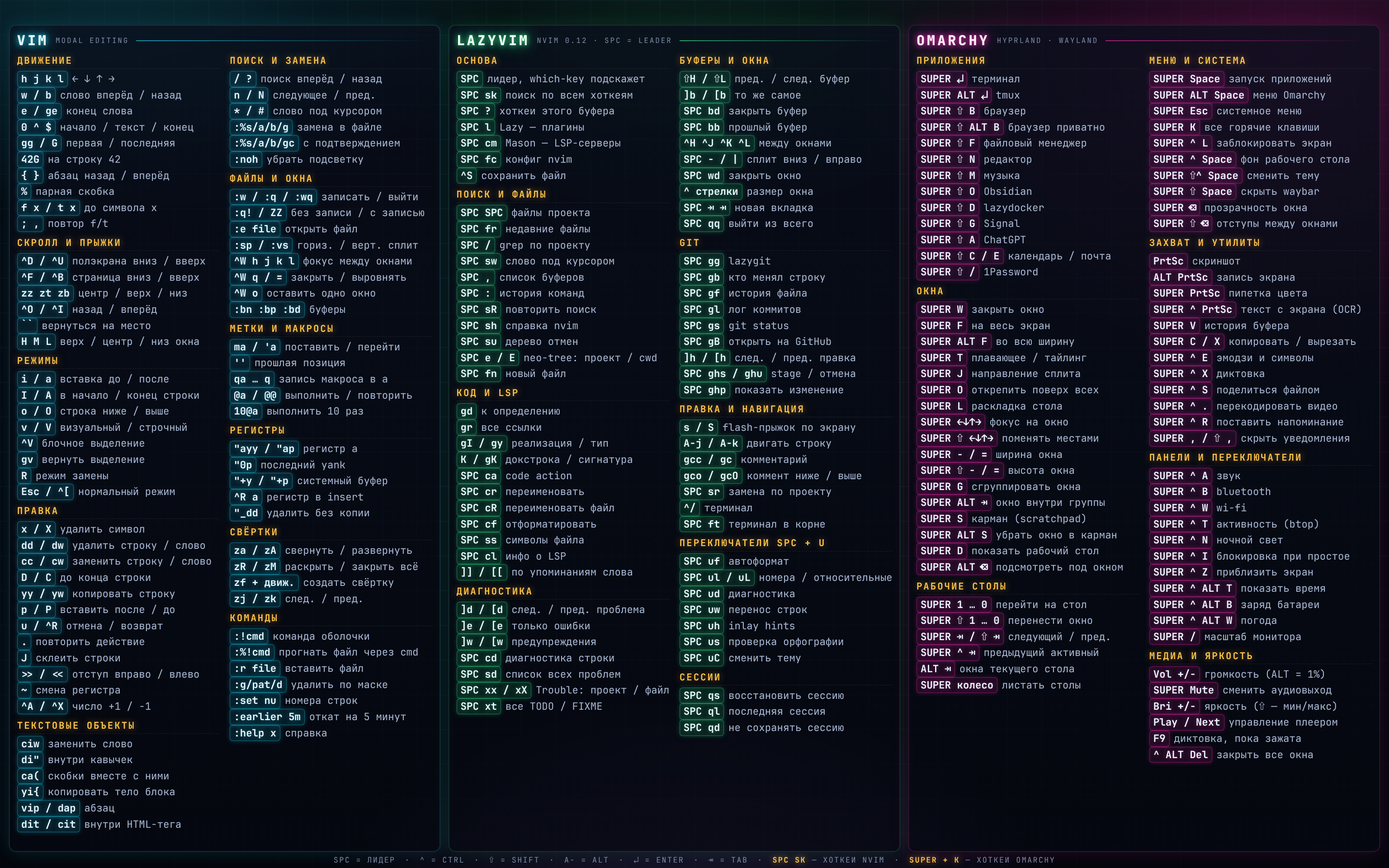
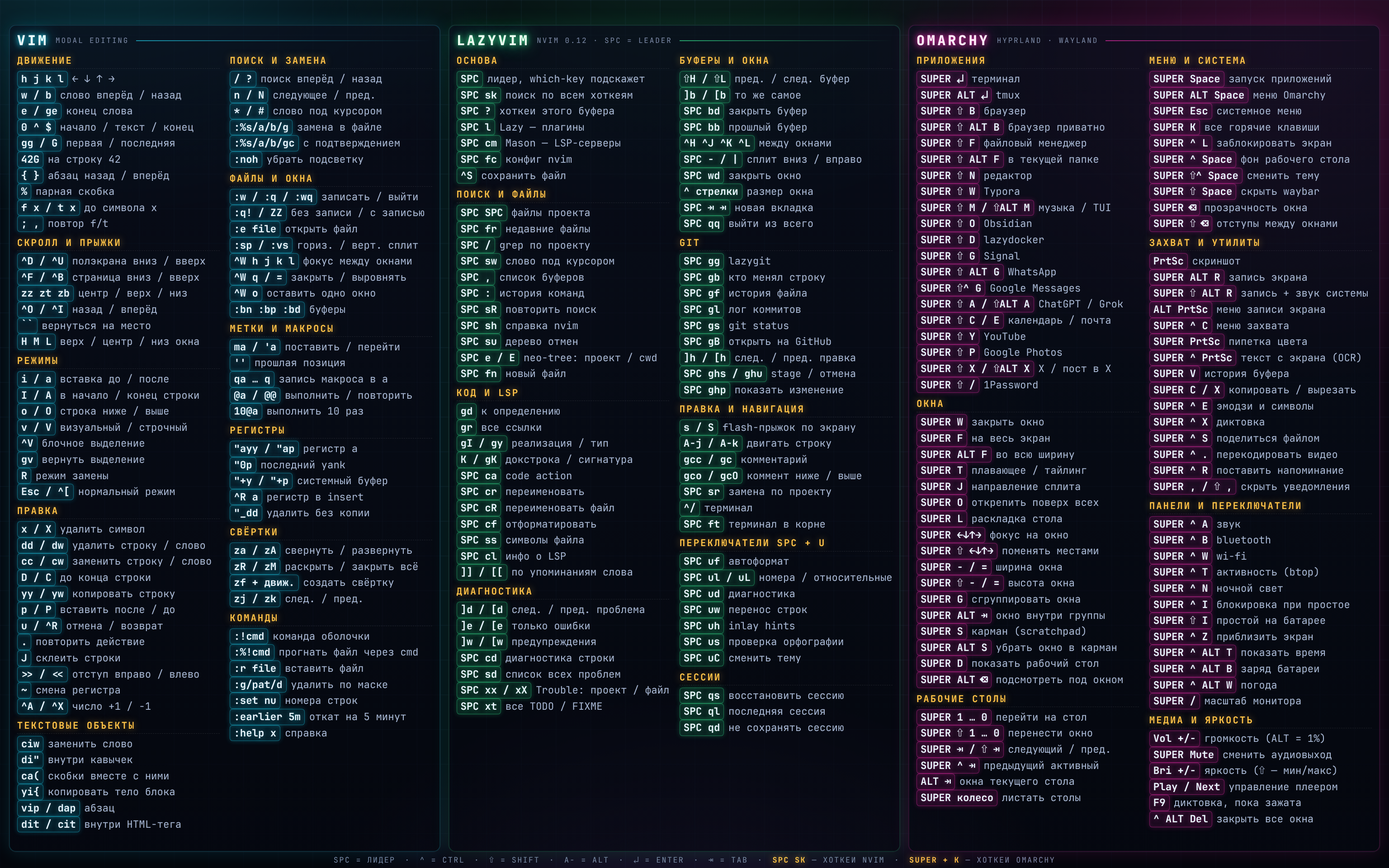
Catch the cheat-sheet wallpaper up with the bindings
The Omarchy panel had drifted: the web apps and Typora were never on it,
neither was SUPER+SHIFT+I, and the new screen recording binds are only
useful if you can read them off the wall. Transcribed against
`omarchy menu keybindings --print` rather than the config, so what is
pictured is what Hyprland has loaded.

ALT+PrtSc is relabelled "меню записи экрана" — with a direct toggle next
to it, "запись экрана" no longer says which is which.

Rows are nowrap and overflow their column silently, so the added labels
are kept short; the first render lost the right edge of the capture
section to the panel border.

Changed region(s): [[0.6562, 0.1562, 0.9688, 0.9688]]

diff --git a/wallpaper/vim-omarchy-neon.html b/wallpaper/vim-omarchy-neon.html
@@ -355,13 +355,20 @@
           <div class="row"><span class="k">SUPER ⇧ B</span><span class="d">браузер</span></div>
           <div class="row"><span class="k">SUPER ⇧ ALT B</span><span class="d">браузер приватно</span></div>
           <div class="row"><span class="k">SUPER ⇧ F</span><span class="d">файловый менеджер</span></div>
+          <div class="row"><span class="k">SUPER ⇧ ALT F</span><span class="d">в текущей папке</span></div>
           <div class="row"><span class="k">SUPER ⇧ N</span><span class="d">редактор</span></div>
-          <div class="row"><span class="k">SUPER ⇧ M</span><span class="d">музыка</span></div>
+          <div class="row"><span class="k">SUPER ⇧ W</span><span class="d">Typora</span></div>
+          <div class="row"><span class="k">SUPER ⇧ M / ⇧ALT M</span><span class="d">музыка / TUI</span></div>
           <div class="row"><span class="k">SUPER ⇧ O</span><span class="d">Obsidian</span></div>
           <div class="row"><span class="k">SUPER ⇧ D</span><span class="d">lazydocker</span></div>
           <div class="row"><span class="k">SUPER ⇧ G</span><span class="d">Signal</span></div>
-          <div class="row"><span class="k">SUPER ⇧ A</span><span class="d">ChatGPT</span></div>
+          <div class="row"><span class="k">SUPER ⇧ ALT G</span><span class="d">WhatsApp</span></div>
+          <div class="row"><span class="k">SUPER ⇧^ G</span><span class="d">Google Messages</span></div>
+          <div class="row"><span class="k">SUPER ⇧ A / ⇧ALT A</span><span class="d">ChatGPT / Grok</span></div>
           <div class="row"><span class="k">SUPER ⇧ C / E</span><span class="d">календарь / почта</span></div>
+          <div class="row"><span class="k">SUPER ⇧ Y</span><span class="d">YouTube</span></div>
+          <div class="row"><span class="k">SUPER ⇧ P</span><span class="d">Google Photos</span></div>
+          <div class="row"><span class="k">SUPER ⇧ X / ⇧ALT X</span><span class="d">X / пост в X</span></div>
           <div class="row"><span class="k">SUPER ⇧ /</span><span class="d">1Password</span></div>
         </section>
 
@@ -413,7 +420,10 @@
         <section>
           <h3>Захват и утилиты</h3>
           <div class="row"><span class="k">PrtSc</span><span class="d">скриншот</span></div>
-          <div class="row"><span class="k">ALT PrtSc</span><span class="d">запись экрана</span></div>
+          <div class="row"><span class="k">SUPER ALT R</span><span class="d">запись экрана</span></div>
+          <div class="row"><span class="k">SUPER ⇧ ALT R</span><span class="d">запись + звук системы</span></div>
+          <div class="row"><span class="k">ALT PrtSc</span><span class="d">меню записи экрана</span></div>
+          <div class="row"><span class="k">SUPER ^ C</span><span class="d">меню захвата</span></div>
           <div class="row"><span class="k">SUPER PrtSc</span><span class="d">пипетка цвета</span></div>
           <div class="row"><span class="k">SUPER ^ PrtSc</span><span class="d">текст с экрана (OCR)</span></div>
           <div class="row"><span class="k">SUPER V</span><span class="d">история буфера</span></div>
@@ -434,6 +444,7 @@
           <div class="row"><span class="k">SUPER ^ T</span><span class="d">активность (btop)</span></div>
           <div class="row"><span class="k">SUPER ^ N</span><span class="d">ночной свет</span></div>
           <div class="row"><span class="k">SUPER ^ I</span><span class="d">блокировка при простое</span></div>
+          <div class="row"><span class="k">SUPER ⇧ I</span><span class="d">простой на батарее</span></div>
           <div class="row"><span class="k">SUPER ^ Z</span><span class="d">приблизить экран</span></div>
           <div class="row"><span class="k">SUPER ^ ALT T</span><span class="d">показать время</span></div>
           <div class="row"><span class="k">SUPER ^ ALT B</span><span class="d">заряд батареи</span></div>
